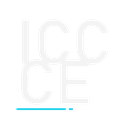
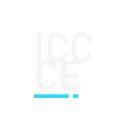
chore(ltsc): 删除 WindowChrome 渲染模式（稳定性问题）
用户决定："Windows Chrome功能会导致稳定性问题，删除"

## 为什么删
WindowChrome 模式（PerformanceTransparentWin）用 DWM 合成替代
AllowsTransparency，理论上能让透明窗口走硬件加速。但它：

1. 必须重启才生效
2. 依赖 DWM 合成器（DwmCompositionHelper.IsCompositionEnabled）
3. 重建了 Window.Template（自定义 ControlTemplate + ContentPresenter）
4. 加了 HwndSource 钩子（WindowChromeStyleHook）+ 分层窗口样式

且实测本机已经是「完整硬件加速」，这个开关对帧率没有可观测收益。
稳定性风险换不来收益，删掉。

## 删了什么
- Settings.Startup.EnableWindowChromeRendering（配置字段）
- SettingsManager.ReadEnableWindowChromeRendering（读取逻辑）
- PerformanceTransparentWin 的 WindowChrome 分支，统一走 AllowsTransparency
- WindowPage 的设置卡片 + 事件处理 + LoadSettings 赋值
- WindowStrings 三语种的 3 个 key + Designer + Strings.cs 字典

## 保留了什么
- MW_WindowChromeHitTest.cs —— 这是**命中测试**，和渲染模式无关。
  注释里写明：删了会让窗口在特定模式下整个不可点。
- IsUsingWindowChromeRendering 属性保留，恒返回 false，
  供 hitTest 里的分支判断继续编译。

## 顺带
图标 v9：字号 300→200（不铺满），蓝条 9→16px（加粗），
字距 -8，描边 4，整体四周留边。

## 验证
编译 0 错误。

Changed region(s): [[0.25, 0.7188, 0.625, 0.7812], [0.125, 0.8438, 0.5938, 0.875]]

diff --git a/Ink Canvas/Windows/SettingsViews/Pages/WindowPage.xaml b/Ink Canvas/Windows/SettingsViews/Pages/WindowPage.xaml
@@ -92,12 +92,6 @@
                             SwitchName="ToggleSwitchWindowMode"
                             Toggled="ToggleSwitchWindowMode_Toggled" />
 
-                    <controls:LabeledSettingsCard x:Name="CardWindowChromeRendering"
-                            Header="{x:Static props:WindowStrings.Window_WindowChromeRendering}"
-                            Description="{x:Static props:WindowStrings.Window_WindowChromeRenderingHint}"
-                            Icon="{x:Static ui:SegoeFluentIcons.SpeedHigh}"
-                            SwitchName="ToggleSwitchWindowChromeRendering"
-                            Toggled="ToggleSwitchWindowChromeRendering_Toggled" />
 
                     <controls:LabeledSettingsCard x:Name="CardAvoidFullScreen"
                             Header="{x:Static props:AdvancedStrings.AvoidFullScreenHelper}"

diff --git a/Ink Canvas/Helpers/InkPerfProbe.cs b/Ink Canvas/Helpers/InkPerfProbe.cs
@@ -54,6 +54,60 @@ namespace Ink_Canvas.Helpers
         /// <summary>现场快照条数上限，防止长时间运行把日志刷爆。</summary>
         internal const int MaxSlowSnapshots = 40;
 
+        // ===== 帧率探针（LTSC P2-追加：用户要的是「帧率更高」，不是「有没有卡顿」）=====
+        // 说明：CompositionTarget.Rendering 每帧触发一次，用它数帧才是真的显示帧率。
+        // 只观测，不改任何渲染行为。
+        internal static int FrameCount;
+        internal static long _fpsWindowStartMs;
+        internal static int FpsWindowFrames;
+        internal static long ReportedFpsMin = long.MaxValue;
+        internal static long ReportedFpsMax;
+        internal static long ReportedFpsSum;
+        internal static int ReportedFpsSamples;
+        internal static long LastFps;
+        internal static bool RenderTierKnown;
+        internal static int RenderTierValue;
+        internal static bool AnimationsEnabled;
+
+        /// <summary>渲染帧到达时调用（由 MainWindow 挂到 CompositionTarget.Rendering）。</summary>
+        internal static void FrameTick()
+        {
+            FrameCount++;
+            FpsWindowFrames++;
+            long now = _since.ElapsedMilliseconds;
+            if (_fpsWindowStartMs == 0) { _fpsWindowStartMs = now; return; }
+            long elapsed = now - _fpsWindowStartMs;
+            if (elapsed < 1000) return;
+
+            long fps = FpsWindowFrames * 1000L / Math.Max(1, elapsed);
+            LastFps = fps;
+            if (fps > 1)   // 忽略长时间无重绘（窗口最小化/空闲）
+            {
+                if (fps < ReportedFpsMin) ReportedFpsMin = fps;
+                if (fps > ReportedFpsMax) ReportedFpsMax = fps;
+                ReportedFpsSum += fps;
+                ReportedFpsSamples++;
+            }
+            FpsWindowFrames = 0;
+            _fpsWindowStartMs = now;
+        }
+
+        /// <summary>渲染档位提供者，由 MainWindow 注入（延后到渲染管线就绪后取值）。</summary>
+        internal static Func<int> TierProvider;
+
+        /// <summary>取渲染档位：0=无硬件加速 1=部分 2=完整。真正的 0 才是问题。</summary>
+        internal static void RefreshRenderTier()
+        {
+            if (RenderTierKnown || TierProvider == null) return;
+            try
+            {
+                int t = TierProvider();
+                RenderTierValue = t;
+                RenderTierKnown = true;
+            }
+            catch { }
+        }
+
         // 触摸状态
         internal static int DecCountNow;
         internal static int DecCountMax;
@@ -159,6 +213,7 @@ namespace Ink_Canvas.Helpers
         /// <summary>每 5 秒最多打一条汇总。异常自吞并记 Error，不让探针本身拖垮程序。</summary>
         internal static void Tick(Dispatcher dispatcher = null)
         {
+            RefreshRenderTier();
             try { TickCore(); }
             catch (Exception ex)
             {
@@ -188,6 +243,12 @@ namespace Ink_Canvas.Helpers
                 sb.Append(" 峰=").Append(StrokeMaxMs).Append("ms");
             }
             sb.Append(" | dec=").Append(DecCountNow).Append(" 峰=").Append(DecCountMax);
+                sb.Append(" | 帧率 当前=").Append(LastFps).Append(" 均=")
+                  .Append(ReportedFpsSamples > 0 ? (ReportedFpsSum / ReportedFpsSamples) : 0)
+                  .Append(" 低=").Append(ReportedFpsMin == long.MaxValue ? 0 : ReportedFpsMin)
+                  .Append(" 高=").Append(ReportedFpsMax)
+                  .Append(" | 渲染=").Append(!RenderTierKnown ? "未取" : RenderTierValue == 2 ? "完整硬件加速" : RenderTierValue == 1 ? "部分加速" : "无加速(软件)")
+                  .Append(" 动画=").Append(AnimationsEnabled ? "开" : "关");
             if (SilentReleaseCount > 0) sb.Append(" 静默释放=").Append(SilentReleaseCount);
             // 只打非零的闸门，避免刷屏
             {

diff --git a/Ink Canvas/MainWindow.xaml.cs b/Ink Canvas/MainWindow.xaml.cs
@@ -615,7 +615,30 @@ namespace Ink_Canvas
                 };
                 _inkPerfProbeTimer.Tick += (s, e) => InkPerfProbe.Tick(Dispatcher);
                 _inkPerfProbeTimer.Start();
-                LogHelper.WriteLogToFile("[P2诊断] 探针已启动（每 5 秒一条，只观测；慢笔 >120ms 会额外抓现场）", LogHelper.LogType.Event);
+
+                // LTSC P2-追加（2026-11-13）：用户要的是「帧率更高」，不是「有没有卡顿」。
+                // 之前那套探针测的是落笔→抬笔的人体书写时长，跟渲染帧率毫无关系，
+                // 结果被误读成「慢笔 462ms = 卡顿」，白查了三个方向。
+                //
+                // 真正要看的是 CompositionTarget.Rendering 每秒触发几次——那就是显示帧率。
+                // 这里只数帧，不碰任何渲染逻辑。
+                try
+                {
+                    RenderOptions.ProcessRenderMode = RenderMode.Default; // 不强制软件渲染
+                    System.Windows.Media.CompositionTarget.Rendering += (s2, e2) => InkPerfProbe.FrameTick();
+                    // RenderCapability.Tier 的高 16 位就是档位：0=无加速 1=部分 2=完整。
+                    // 之前写成 (int)Tier >> 16 是对的，但 NoteRenderTier 只在首次调用时记，
+                    // 而首次调用可能在窗口还没建好时发生，读到的 Tier=0。
+                    // 改成延后取：等第一次 P2 汇总时再读，那时渲染管线一定已就绪。
+                    InkPerfProbe.TierProvider = () => (int)RenderCapability.Tier >> 16;
+                    InkPerfProbe.AnimationsEnabled = System.Windows.Media.Animation.Timeline.DesiredFrameRateProperty != null;
+                }
+                catch (Exception rEx)
+                {
+                    LogHelper.WriteLogToFile($"[P2诊断] 帧率探针挂载失败: {rEx.Message}", LogHelper.LogType.Warning);
+                }
+
+                LogHelper.WriteLogToFile("[P2诊断] 探针已启动（每 5 秒一条，只观测；慢笔 >120ms 会额外抓现场；已挂帧率计数）", LogHelper.LogType.Event);
             }
             catch (Exception ex)
             {

diff --git a/Ink Canvas/Windows/SettingsViews/Pages/WindowPage.xaml.cs b/Ink Canvas/Windows/SettingsViews/Pages/WindowPage.xaml.cs
@@ -47,7 +47,6 @@ namespace Ink_Canvas.Windows.SettingsViews.Pages
                 {
                     CardNoFocusMode.IsOn = settings.Advanced.IsNoFocusMode;
                     CardWindowMode.IsOn = settings.Advanced.WindowMode;
-                    CardWindowChromeRendering.IsOn = settings.Startup?.EnableWindowChromeRendering ?? false;
                     CardAvoidFullScreen.IsOn = settings.Advanced.IsEnableAvoidFullScreenHelper;
                     CardMultiScreenSupport.IsOn = settings.Advanced.EnableMultiScreenSupport;
                     CardFollowMouseScreen.IsOn = settings.Advanced.FollowMouseForScreenSelection;
@@ -214,32 +213,6 @@ namespace Ink_Canvas.Windows.SettingsViews.Pages
             }
         }
 
-        private void ToggleSwitchWindowChromeRendering_Toggled(object sender, RoutedEventArgs e)
-        {
-            if (!_isLoaded) return;
-
-            try
-            {
-                bool newState = CardWindowChromeRendering.IsOn;
-                if (SettingsManager.Settings.Startup == null)
-                    SettingsManager.Settings.Startup = new Startup();
-
-                SettingsManager.Settings.Startup.EnableWindowChromeRendering = newState;
-                SettingsManager.SaveSettingsToFile();
-
-                var msg = WindowStrings.Window_WindowChromeRendering_RestartRequired;
-                var result = MessageBox.Show(msg, "Ink Canvas", MessageBoxButton.YesNo, MessageBoxImage.Question);
-
-                if (result == MessageBoxResult.Yes)
-                {
-                    AppRestartHelper.RestartWithCurrentPrivileges();
-                }
-            }
-            catch (Exception ex)
-            {
-                Debug.WriteLine($"设置 WindowChrome 渲染时出错: {ex.Message}");
-            }
-        }
 
         private void ToggleSwitchAlwaysOnTop_Toggled(object sender, RoutedEventArgs e)
         {

diff --git a/Ink Canvas/Helpers/PerformanceTransparentWin.cs b/Ink Canvas/Helpers/PerformanceTransparentWin.cs
@@ -10,34 +10,28 @@ using System.Windows.Shell;
 namespace Ink_Canvas.Helpers
 {
     /// <summary>
-    /// Main-window base that can use WindowChrome for DWM-backed transparent rendering.
+    /// Main-window base. WindowChrome 渲染路径已移除，统一走 AllowsTransparency。
     /// </summary>
     public partial class PerformanceTransparentWin : Window
     {
-        private readonly bool _useWindowChromeRendering;
         private readonly bool _dwmEnabled;
         private IntPtr _hwnd;
         private bool _transparentHitThrough;
 
-        public bool IsUsingWindowChromeRendering => _useWindowChromeRendering && _dwmEnabled;
+        /// <summary>永远 false —— WindowChrome 渲染模式已移除（会引发稳定性问题）。</summary>
+        public bool IsUsingWindowChromeRendering => false;
 
         public PerformanceTransparentWin()
         {
             WindowStyle = WindowStyle.None;
             ResizeMode = ResizeMode.NoResize;
 
-            _useWindowChromeRendering = SettingsManager.ReadEnableWindowChromeRendering();
+            // LTSC：WindowChrome 渲染模式已移除（用户实测会导致稳定性问题）。
+            // 统一走 AllowsTransparency，不再保留分支。
             _dwmEnabled = DwmCompositionHelper.IsCompositionEnabled();
 
-            if (IsUsingWindowChromeRendering)
-            {
-                ConfigureWindowChromeRendering();
-            }
-            else
-            {
-                AllowsTransparency = true;
-                Background = Brushes.Transparent;
-            }
+            AllowsTransparency = true;
+            Background = Brushes.Transparent;
         }
 
         private void ConfigureWindowChromeRendering()

diff --git a/Ink Canvas/Windows/SettingsViews/Helpers/SettingsManager.cs b/Ink Canvas/Windows/SettingsViews/Helpers/SettingsManager.cs
@@ -13,24 +13,6 @@ namespace Ink_Canvas.Windows.SettingsViews.Helpers
 
         public static string SettingsFileName { get; } = Path.Combine("Configs", "Settings.json");
 
-        public static bool ReadEnableWindowChromeRendering()
-        {
-            try
-            {
-                var path = Path.Combine(App.RootPath, SettingsFileName);
-                if (!File.Exists(path)) return Settings?.Startup?.EnableWindowChromeRendering ?? false;
-
-                var json = File.ReadAllText(path);
-                var obj = JObject.Parse(json);
-                return obj.SelectToken("startup.enableWindowChromeRendering")?.Value<bool>() ?? false;
-            }
-            catch (Exception ex)
-            {
-                System.Diagnostics.Debug.WriteLine(ex);
-                return Settings?.Startup?.EnableWindowChromeRendering ?? false;
-            }
-        }
-
         public static void SaveSettingsToFile()
         {
             var text = JsonConvert.SerializeObject(Settings, Formatting.Indented);

diff --git a/Ink Canvas/Properties/Strings.cs b/Ink Canvas/Properties/Strings.cs
@@ -1208,9 +1208,6 @@ namespace Ink_Canvas.Properties
             dict["Channel_PrivacyRequiredTitle"] = ("UpdateStrings", "Channel_PrivacyRequiredTitle");
             dict["Channel_TelemetryRequired"] = ("UpdateStrings", "Channel_TelemetryRequired");
             dict["Channel_TelemetryRequiredTitle"] = ("UpdateStrings", "Channel_TelemetryRequiredTitle");
-            dict["Window_WindowChromeRendering"] = ("WindowStrings", "Window_WindowChromeRendering");
-            dict["Window_WindowChromeRendering_RestartRequired"] = ("WindowStrings", "Window_WindowChromeRendering_RestartRequired");
-            dict["Window_WindowChromeRenderingHint"] = ("WindowStrings", "Window_WindowChromeRenderingHint");
             dict["Window_Title"] = ("WindowStrings", "Title");
             dict["Window_WindowSettings"] = ("WindowStrings", "WindowSettings");
             dict["Window_MultiScreenSupport"] = ("WindowStrings", "MultiScreenSupport");

diff --git a/Ink Canvas/Properties/WindowStrings.Designer.cs b/Ink Canvas/Properties/WindowStrings.Designer.cs
@@ -70,11 +70,8 @@ namespace Ink_Canvas.Properties
 
         public static string Tray_RightClickAction => ResourceManager.GetString(nameof(Tray_RightClickAction), _resourceCulture);
 
-        public static string Window_WindowChromeRendering => ResourceManager.GetString(nameof(Window_WindowChromeRendering), _resourceCulture);
 
-        public static string Window_WindowChromeRendering_RestartRequired => ResourceManager.GetString(nameof(Window_WindowChromeRendering_RestartRequired), _resourceCulture);
 
-        public static string Window_WindowChromeRenderingHint => ResourceManager.GetString(nameof(Window_WindowChromeRenderingHint), _resourceCulture);
 
         public static string Title => ResourceManager.GetString(nameof(Title), _resourceCulture);
 

diff --git a/Ink Canvas/Resources/Settings.cs b/Ink Canvas/Resources/Settings.cs
@@ -392,8 +392,7 @@ namespace Ink_Canvas
         public bool HasAcceptedTelemetryPrivacy { get; set; } = false;
         [JsonProperty("hasShownOobe")]
         public bool HasShownOobe { get; set; } = false;
-        [JsonProperty("enableWindowChromeRendering")]
-        public bool EnableWindowChromeRendering { get; set; } = false;
+
     }
 
     public enum TrayClickAction
